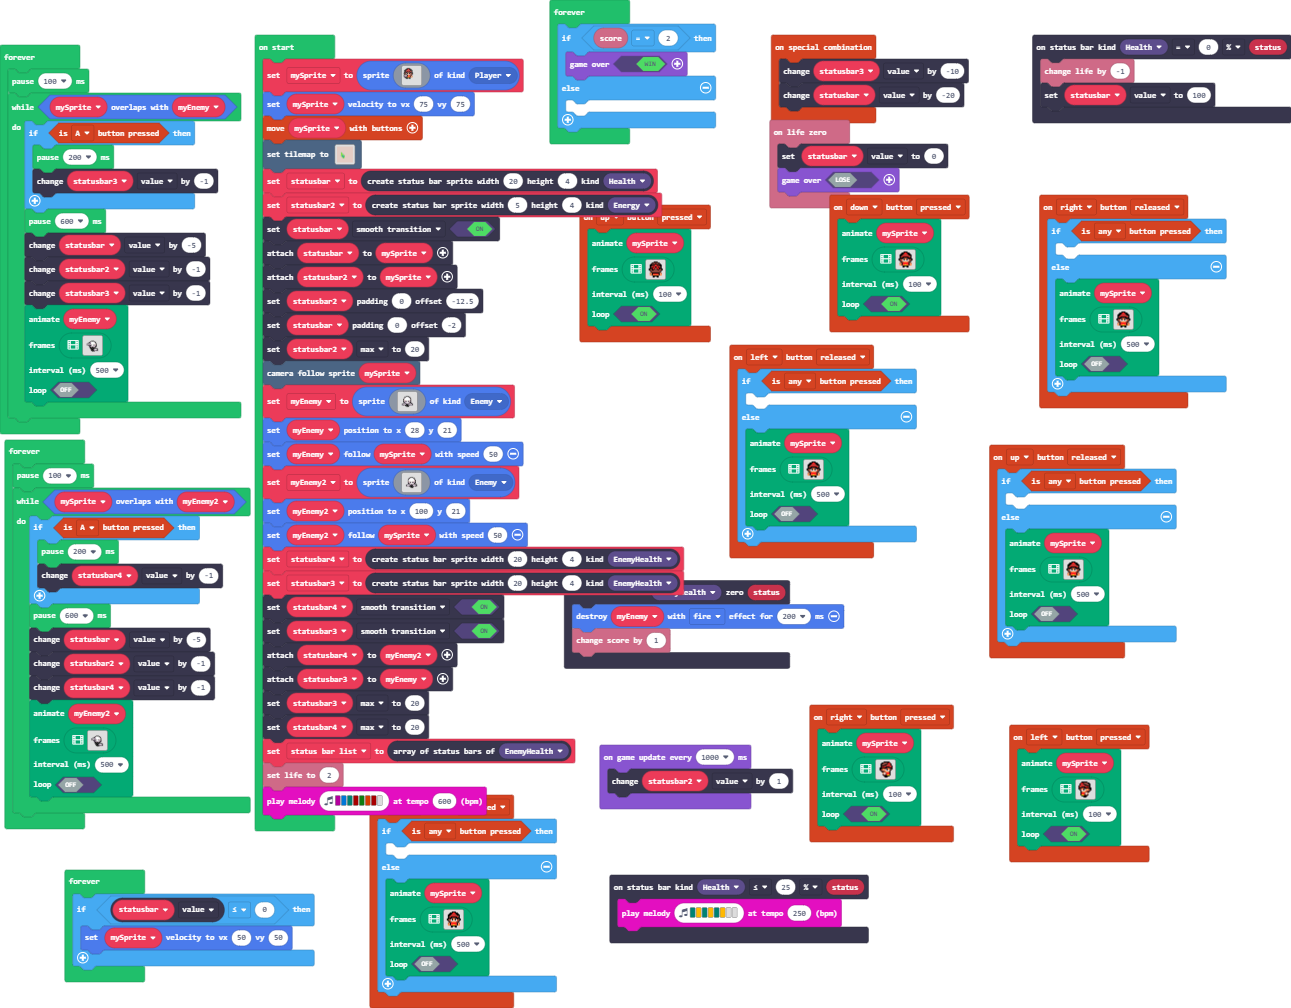
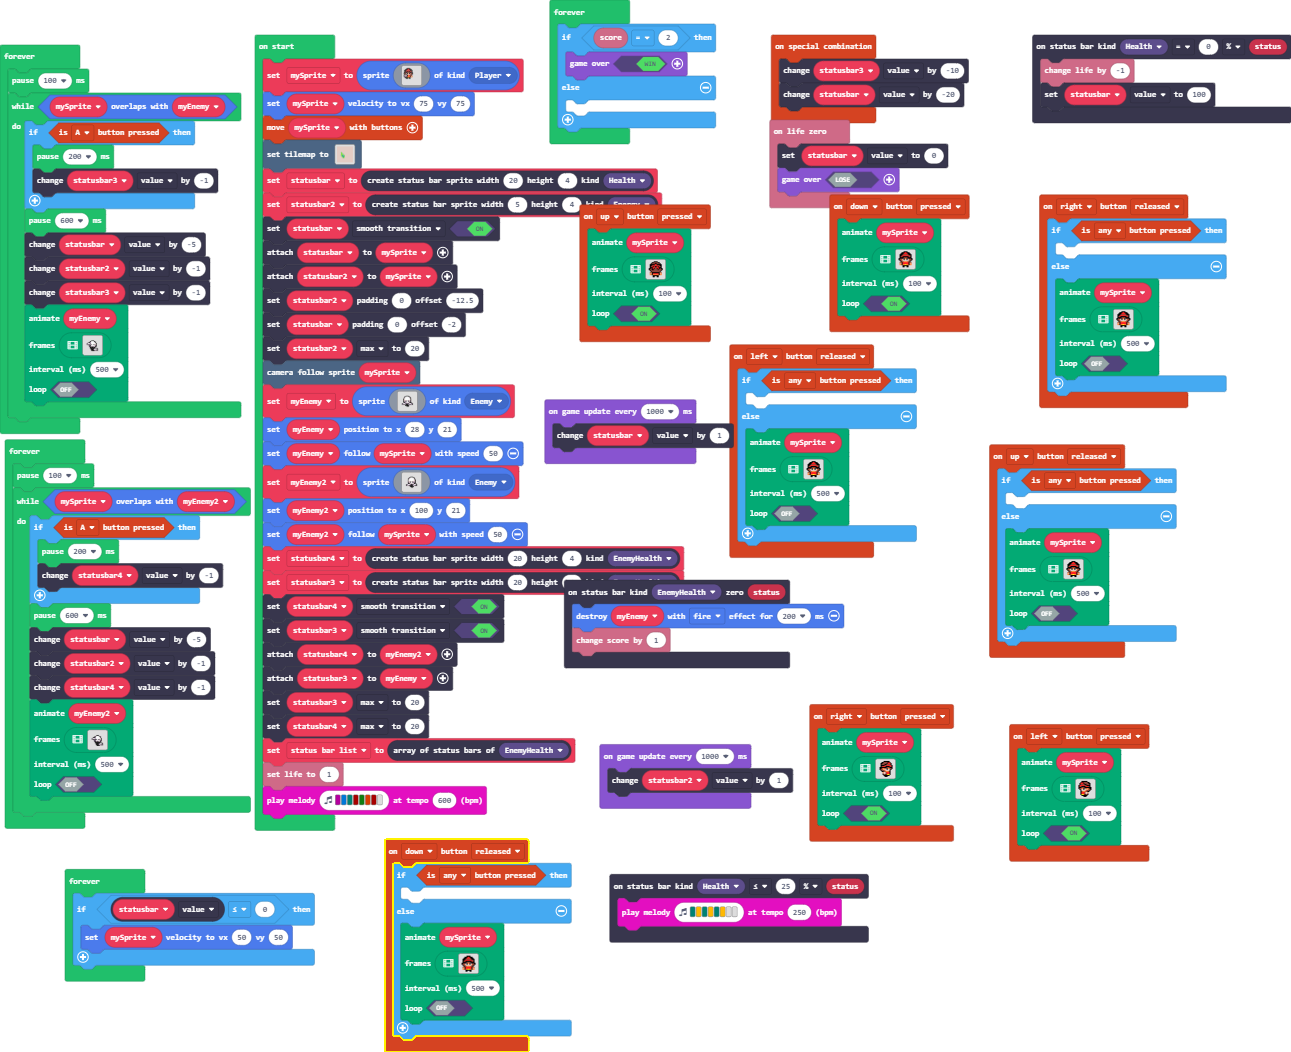
added regen, got rid of nonfunctional code

diff --git a/main.ts b/main.ts
@@ -550,8 +550,11 @@ statusbar3.attachToSprite(myEnemy)
 statusbar3.max = 20
 statusbar4.max = 20
 let status_bar_list = statusbars.allOfKind(StatusBarKind.EnemyHealth)
-info.setLife(2)
+info.setLife(1)
 music.playMelody("C E F C5 G B C5 - ", 600)
+game.onUpdateInterval(1000, function () {
+    statusbar.value += 1
+})
 game.onUpdateInterval(1000, function () {
     statusbar2.value += 1
 })
